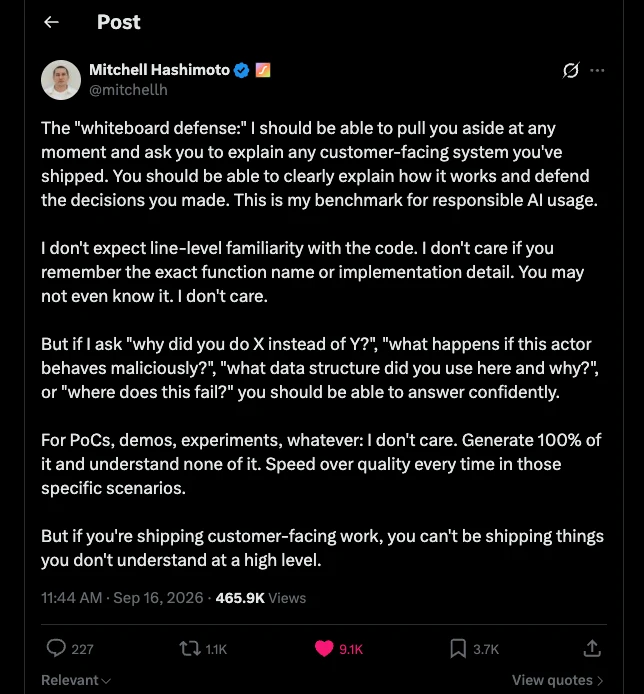
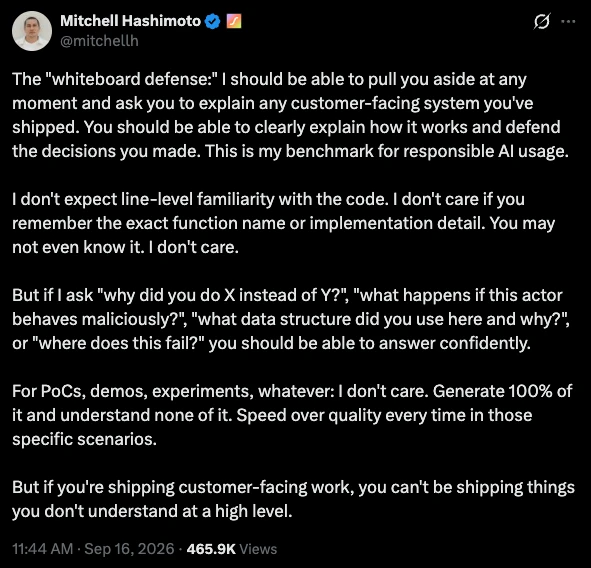
Accueil : la capture du tweet sans la barre d'actions

diff --git a/content/_index.md b/content/_index.md
@@ -70,7 +70,7 @@ réponse de ce cours tient en un critère, formulé en septembre 2026 par Mitche
 Hashimoto, cofondateur de HashiCorp, l'entreprise derrière Terraform que vous
 croiserez au [module 5]({{< relref "/docs/module5/10-infrastructure/30-iac/index.md" >}}).
 
-{{< image src="hashimoto-whiteboard-defense.webp" alt="Capture d'écran d'une publication de Mitchell Hashimoto (@mitchellh) sur X, datée du 16 septembre 2026, en thème sombre, qui définit la « whiteboard defense » comme critère d'un usage responsable de l'IA ; 465,9 k vues, 9,1 k mentions j'aime" title="La « défense au tableau blanc », telle que publiée par Mitchell Hashimoto le 16 septembre 2026" loading="lazy" >}}
+{{< image src="hashimoto-whiteboard-defense.webp" alt="Capture d'écran d'une publication de Mitchell Hashimoto (@mitchellh) sur X, datée du 16 septembre 2026, en thème sombre, qui définit la « whiteboard defense » comme critère d'un usage responsable de l'IA ; 465,9 k vues" title="La « défense au tableau blanc », telle que publiée par Mitchell Hashimoto le 16 septembre 2026" loading="lazy" >}}
 
 Traduction&nbsp;:
 
